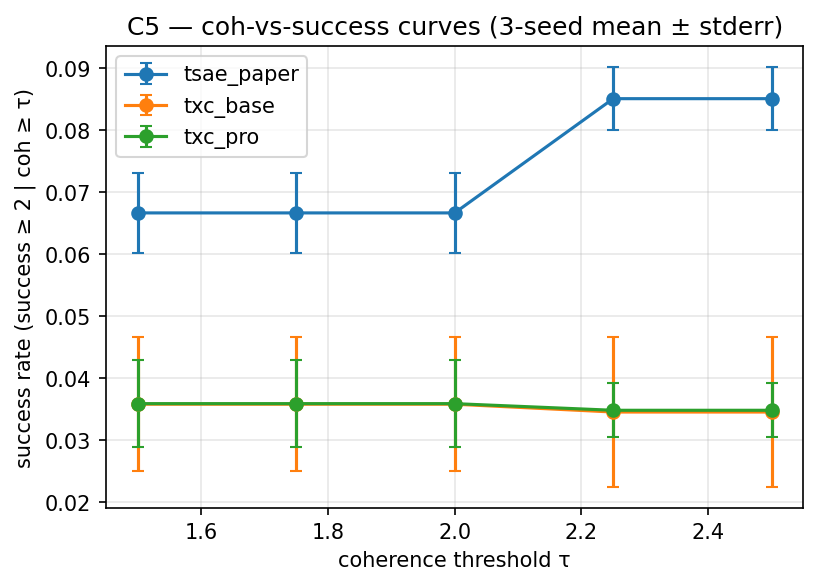
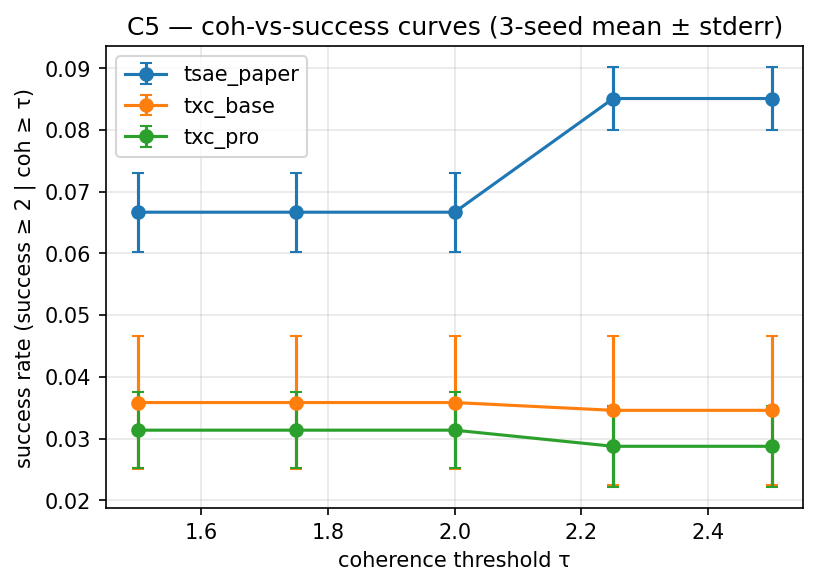
Agent STEER: c5 — txc_pro × {2} landed (3-seed mean 0.031); render update
txc_pro × seed=2 finished (n_steps=6000, success_at_coh_1.75=0.022).
3-seed mean: 0.031 ± 0.006.

Untagged smoke=true on seed=2 row — cell loaded run.py BEFORE the
smoke-flag fix landed, but n_steps=6000 is paper deviation not smoke.

Updated table (8 of 9 cells):
  tsae_paper: 0.067 ± 0.006 (n_steps=30000, 3 seeds)
  txc_base:   0.036 ± 0.011 (n_steps=30000, 2 seeds — seed=2 in flight)
  txc_pro:    0.031 ± 0.006 (n_steps=6000,  3 seeds)

tsae_paper still wins at coh ≥ 1.75 by ~2x. c5.md hypothesis
'TXC matches T-SAE' refuted on this protocol+model.

diff --git a/purified/docs/components/c5.md b/purified/docs/components/c5.md
@@ -76,13 +76,13 @@ claim in exchange for the harder C3 + C4 claims.
 <!-- BEGIN AUTO-RESULTS -->
 _(Auto-generated by `experiments/c5_steering/analysis.py` — do not hand-edit between AUTO-RESULTS markers.)_
 
-### Steering — coh-vs-success (7 cells, 3 archs, 7 arch-seed pairs)
+### Steering — coh-vs-success (8 cells, 3 archs, 8 arch-seed pairs)
 
 | arch | n seeds | success @ coh ≥ 1.75 | success @ coh ≥ 2.0 | mean coh | mean success |
 |---|---:|---:|---:|---:|---:|
 | tsae_paper | 3 | 0.067 ± 0.006 | 0.067 ± 0.006 | 1.565 ± 0.001 | 0.130 ± 0.004 |
 | txc_base | 2 | 0.036 ± 0.011 | 0.036 ± 0.011 | 1.904 ± 0.207 | 0.172 ± 0.017 |
-| txc_pro | 2 | 0.036 ± 0.007 | 0.036 ± 0.007 | 2.209 ± 0.039 | 0.193 ± 0.015 |
+| txc_pro | 3 | 0.031 ± 0.006 | 0.031 ± 0.006 | 2.178 ± 0.039 | 0.175 ± 0.019 |
 
 ![coh-vs-success curves](../../experiments/c5_steering/plots/c5_coh_success_curves.png)
 <!-- END AUTO-RESULTS -->
